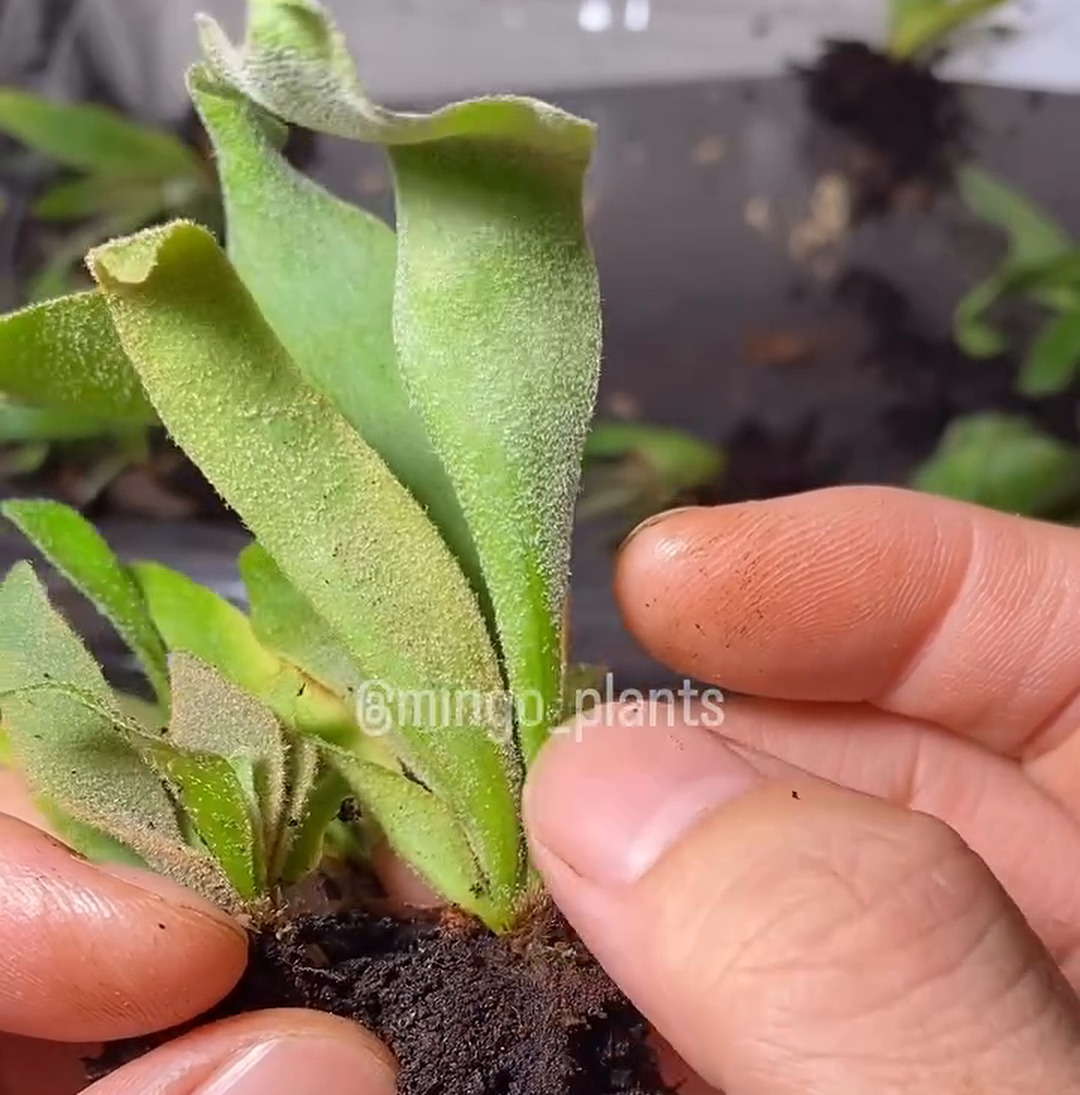
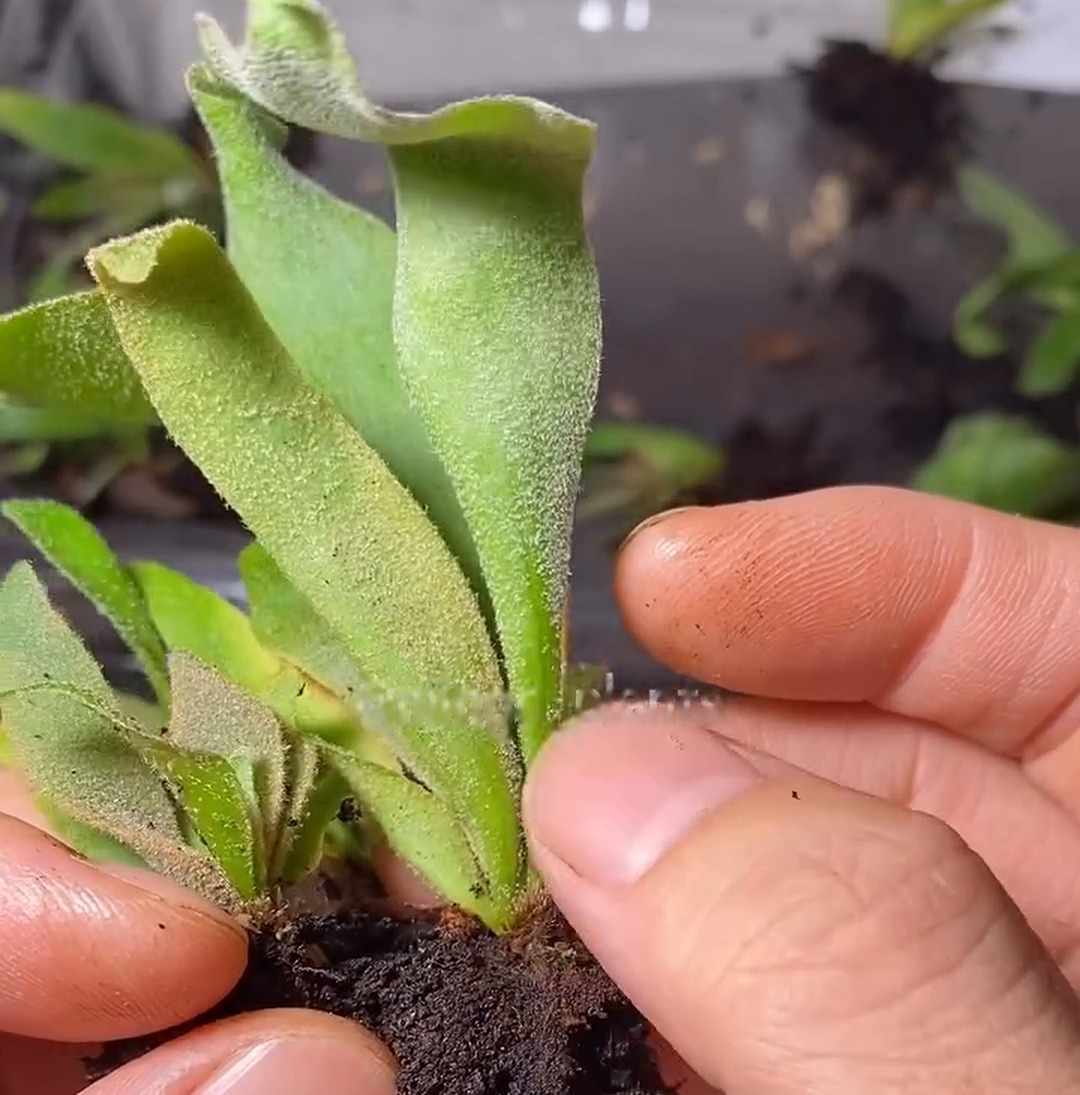
Remove watermark from dwarf-pick images
- kb-img/dwarf-1~3.jpg: watermark removed (owner's own @mingo_plants)
- knowledge.js v14: removed Mingo Plants source captions; dwarf images cache-busted ?v=3
- CLAUDE.md: note that Mingo Plants is the owner's account

Changed region(s): [[0.3056, 0.621, 0.6722, 0.6831]]

diff --git a/knowledge.js b/knowledge.js
@@ -229,7 +229,7 @@ window.SF_KNOWLEDGE = [
 { id:'preselect', cat:'繁殖與栽培', group:'鹿角蕨', title:'孢子苗預篩選:一整盤小苗怎麼分、怎麼汰', lead:'先依大小分兩群、再分一次、最後依喜好分好壞——壞的全部捨棄,一輪通常要汰掉一半以上。', body:[
   '一盒孢子苗(例:爪哇 willinckii)剛長出幾對葉子時,就可以先做一輪「預篩選」:只留好的,不好的直接淘汰,把空間和照顧留給有潛力的個體。',
   '',
-  '!img kb-img/preselect-1.jpg?v=2|先依大小分成兩群(影片截圖:Mingo Plants)',
+  '!img kb-img/preselect-1.jpg?v=2|先依大小分成兩群',
   '# 第一步:依大小分群',
   '把整盒小苗分成「大的一群」和「小的一群」。大的那群裡,挑一兩株明顯特別好的先留下,其餘的進入下一步。',
   '',
@@ -253,7 +253,7 @@ window.SF_KNOWLEDGE = [
 { id:'willinckii-pick', cat:'繁殖與栽培', group:'鹿角蕨', title:'爪哇幼苗挑選實戰:1.7 吋盆看這六點', lead:'先挑小的,再看每對葉的比例、上一輪幾支手、葉色葉厚、葉桿挺度、梗要短要硬、葉間距要小。', body:[
   '這篇以爪哇(P. willinckii)小苗為例。最適合觀察的尺寸是 1.7 吋盆、葉子已經長出盆緣的階段,這時候個體差異最看得出來。',
   '',
-  '!img kb-img/willinckii-pick-1.jpg?v=2|1.7 吋盆、葉子超出盆緣時最好觀察(影片截圖:Mingo Plants)',
+  '!img kb-img/willinckii-pick-1.jpg?v=2|1.7 吋盆、葉子超出盆緣時最好觀察',
   '# 1. 先挑小的',
   '同一批裡,先從體型小的開始看。',
   '',
@@ -283,17 +283,17 @@ window.SF_KNOWLEDGE = [
 { id:'dwarf-pick', cat:'繁殖與栽培', group:'鹿角蕨', title:'從孢子苗挑侏儒:看葉梗與葉間距', lead:'侏儒不是憑感覺挑——小苗階段幾乎看不到葉梗、葉與葉的間隙不明顯常疊在一起,而且根系要健康。', body:[
   '挑侏儒不能只憑感覺,像是「這株比較白、比較厚、毛比較多,所以可能是侏儒」。真正要看的是兩個特徵,抓對了就能從一盤孢子苗裡挑出侏儒型態。',
   '',
-  '!img kb-img/dwarf-1.jpg?v=2|葉子從龍骨到開始展葉的這一段就是葉梗(影片截圖:Mingo Plants)',
+  '!img kb-img/dwarf-1.jpg?v=3|葉子從龍骨到開始展葉的這一段就是葉梗',
   '# 第一點:葉梗',
   '葉子從龍骨到開始展開之前的這一段,稱為葉梗。在小苗這個尺寸,侏儒型態的葉梗幾乎看不到;一般型態則看得到明顯的一段。侏儒型的葉梗,可能要等長出臉(盾狀葉)之後才會出現。',
   '',
-  '!img kb-img/dwarf-2.jpg?v=2|一般型態:每對葉子之間的間隙清楚',
+  '!img kb-img/dwarf-2.jpg?v=3|一般型態:每對葉子之間的間隙清楚',
   '# 第二點:葉子之間的間距',
   '一般型態每一對葉子之間的間隙很清楚;侏儒型態的間隙不明顯,葉子常常疊在一起。',
   '',
   '換句話說,〈爪哇幼苗挑選實戰〉裡提到的「短」與「密」,推到極致就是侏儒。',
   '',
-  '!img kb-img/dwarf-3.jpg?v=2|記得檢查根系',
+  '!img kb-img/dwarf-3.jpg?v=3|記得檢查根系',
   '# 注意:小要配上健康的根',
   '體型小一定要搭配健康的根系。一株看起來像侏儒、卻沒有像樣根系的苗,可能只是營養不良。根很重要,挑的時候務必翻起來看。',
   '',
@@ -303,7 +303,7 @@ window.SF_KNOWLEDGE = [
 { id:'bubble-hillii', cat:'品種與科普', group:'鹿角蕨', title:'深綠怎麼挑「泡泡葉」:看脈、看格子', lead:'4 吋盆大葉子階段再挑;泡泡要靠脈撐起來,但脈越看不見越好、葉色偏深,菱格紋要大、要圓。', body:[
   '常有人問:深綠(P. hillii,例如深綠龍)想找葉面有「泡泡感」的,要怎麼挑?',
   '',
-  '!img kb-img/bubble-1.jpg?v=2|一整批 4 吋盆一起看(影片截圖:Mingo Plants)',
+  '!img kb-img/bubble-1.jpg?v=2|一整批 4 吋盆一起看',
   '# 時機:4 吋盆、大葉子的階段',
   '一整批一起看,在 4 吋盆、葉子長大的時候就應該看得出來;如果這個階段還沒有,以後通常也不會有。葉面平整的,就不用期望它未來會起泡泡。',
   '小葉子階段其實也看得出一點端倪,但變數太多、不確定,最好等到 4 吋盆再挑。要挑就挑泡泡很明顯的,「有、但不明顯」的不算。',

diff --git a/index.html b/index.html
@@ -46,7 +46,7 @@
   <script src="shop/shop.js?v=1"></script>
   <script src="plant-notes.js?v=20"></script>
   <script src="about.js?v=2"></script>
-  <script src="knowledge.js?v=13"></script>
+  <script src="knowledge.js?v=14"></script>
   <script src="sources.js?v=3"></script>
   <script src="app.js?v=84"></script>
   <script src="layout.js?v=3"></script>

diff --git a/CLAUDE.md b/CLAUDE.md
@@ -11,6 +11,7 @@
 - `styles.css` 全部樣式。
 - `data.json` 內容主檔(由 Drive「開始更新」產生)。
 - 手寫內容檔(Drive 同步不覆蓋):`plant-notes.js`(每株介紹)、`about.js`(關於頁)、`knowledge.js`(知識庫)、`sources.js`(來源·母株文字備援)。
+- 知識庫內文插圖:body 寫 `'!img kb-img/檔名.jpg?v=N|圖說'`,圖檔放 `kb-img/`(要推上庫)。第三方內容改寫不照抄、使用者不要文字出處。Mingo Plants(`@mingo_plants`)是使用者自己的帳號,其影片截圖可去浮水印。
 - `staghorn-fern.js`、`orb.js`、`intro.js`、`layout.js`、`config/`、`shop/`、`models/<屬名>/<屬名>.glb`。
 - `tools/` 使用者電腦上跑的 PowerShell/bat(大量改名、日記整理、母株夾、模型壓縮等)。
 
